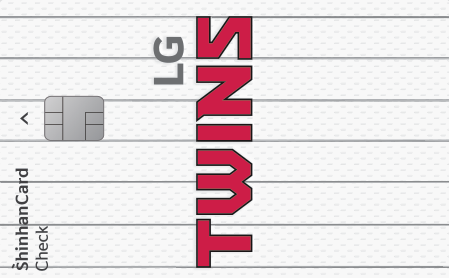
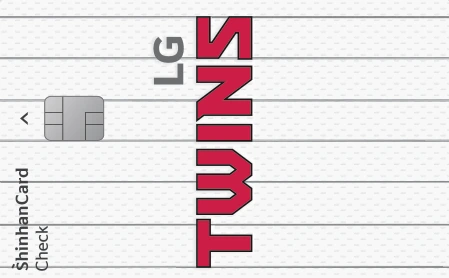
앱 카드 목록에 신한카드 4장(41~44) 추가, PR #7 그림을 진짜 WebP 로
- 41 The PET, 42 CJ ONE 체크, 43 Deep Oil, 44 LG트윈스 체크를 cardCatalog40.json 에
  더함 (혜택은 백엔드 /api/card-products/{id} 를 toCatalogBenefits 로 옮김)
- cardCatalog40.js 에 그림 등록, cardRecommendationProducts.js 에 신한카드 공식
  그림·신청 페이지 주소 4개
- PR #7 의 41~44.webp 는 실제로 JPEG/PNG 라 그림 크기를 읽지 못했음 → 같은 크기의
  진짜 WebP 로 바꿔 백엔드 static 과 앱 assets 에 둠

diff --git a/frontend/data/cardRecommendationProducts.js b/frontend/data/cardRecommendationProducts.js
@@ -1,4 +1,29 @@
 export const CARD_PRODUCTS = {
+  // 2026-11-24 공용 DB 에 더한 신한카드 4장: 신한카드 공식 상품 페이지와 카드 그림 (추천 화면 '카드 신청'·지갑 그림)
+  SH_THE_PET: {
+    image: {
+      uri: 'https://www.shinhancard.com/pconts/static/images/card/plate/BLCDMH_P3_v_f_s.png',
+    },
+    url: 'https://www.shinhancard.com/pconts/html/card/apply/credit/1228839_2207.html',
+  },
+  SH_CJ_ONE_CHECK: {
+    image: {
+      uri: 'https://www.shinhancard.com/pconts/static/images/card/plate/BA9BM9_E5_v_f_s.png',
+    },
+    url: 'https://www.shinhancard.com/pconts/html/card/apply/check/1188363_2206.html',
+  },
+  SH_DEEP_OIL: {
+    image: {
+      uri: 'https://www.shinhancard.com/pconts/static/images/card/plate/BIABE0_E5_v_f_s.webp',
+    },
+    url: 'https://www.shinhancard.com/pconts/html/card/apply/credit/1188274_2207.html',
+  },
+  SH_LG_TWINS_CHECK: {
+    image: {
+      uri: 'https://www.shinhancard.com/pconts/static/images/card/plate/BGMD1B_WA_v_f_s.png',
+    },
+    url: 'https://www.shinhancard.com/pconts/html/card/apply/check/1224553_2206.html',
+  },
   SH_KUKMIN_CREDIT: {
     image: {
       uri: 'https://www.shinhancard.com/pconts/static/images/card/plate/CBSCEY_00_h_f_s.png',

diff --git a/frontend/data/cardCatalog40.js b/frontend/data/cardCatalog40.js
@@ -40,6 +40,11 @@ const images = {
   '38.webp': require('../assets/card-catalog-40/38.webp'),
   '39.webp': require('../assets/card-catalog-40/39.webp'),
   '40.webp': require('../assets/card-catalog-40/40.webp'),
+  // 2026-11-24 공용 DB 에 더한 신한카드 4장 (41 The PET, 42 CJ ONE 체크, 43 Deep Oil, 44 LG트윈스 체크)
+  '41.webp': require('../assets/card-catalog-40/41.webp'),
+  '42.webp': require('../assets/card-catalog-40/42.webp'),
+  '43.webp': require('../assets/card-catalog-40/43.webp'),
+  '44.webp': require('../assets/card-catalog-40/44.webp'),
 };
 
 export const CARD_CATALOG_40 = cards.map(card => ({
